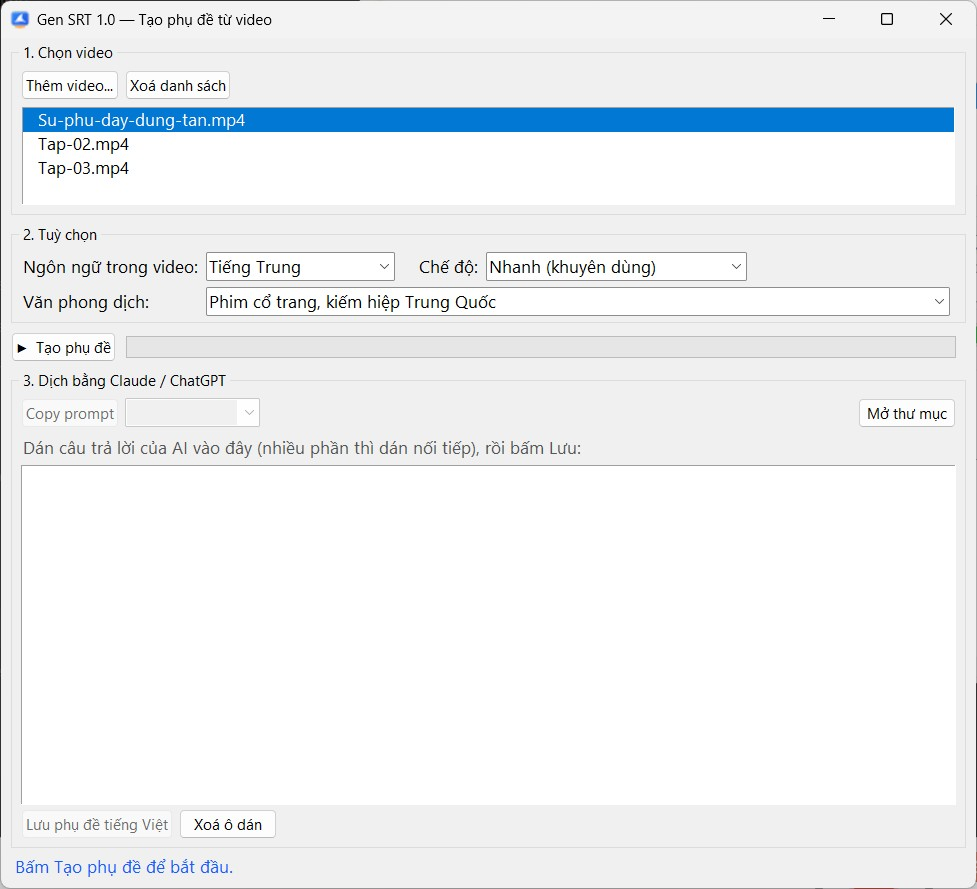
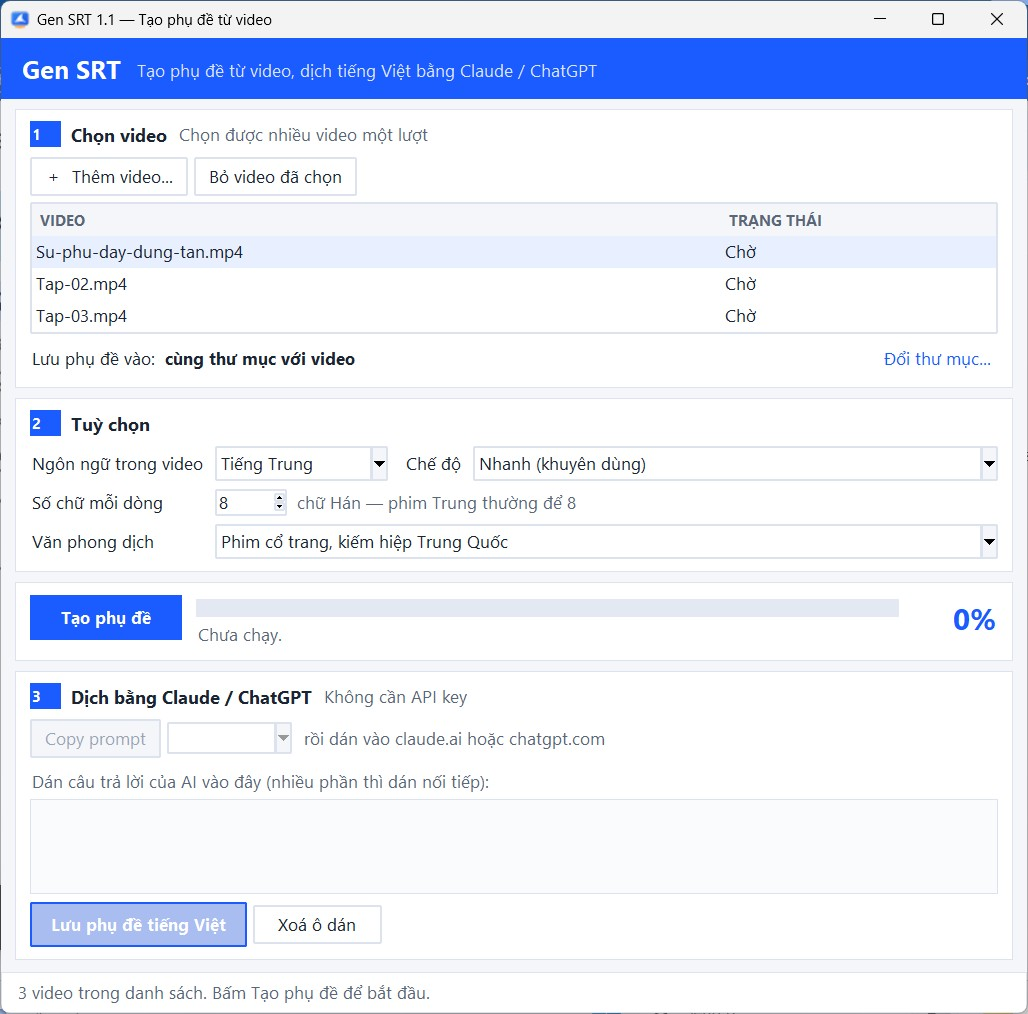
Gen SRT 1.1: hiện tiến trình, chọn nơi lưu, số chữ mỗi dòng
Cập nhật thông tin tải (bản 1.1, 124 MB, SHA-256 mới), tính năng, lịch sử
phiên bản và ảnh hướng dẫn chụp từ giao diện mới.

diff --git a/js/apps.js b/js/apps.js
@@ -144,14 +144,14 @@ window.LONG_APPS = [
       'không cần API key. Dán câu trả lời lại vào app là ra phụ đề tiếng Việt. Nhận dạng giọng nói chạy ngay trên máy bạn.',
     icon: 'img/apps/gensrt.png',
     platform: 'Windows',
-    version: '1.0',
+    version: '1.1',
     updated: '2026-11-15',
-    size: '104 MB',
-    file: 'https://github.com/brucewave/longapps/releases/download/gensrt-1.0/GenSRT-1.0.zip',
[1 lines of base64/hex data omitted]
+    size: '124 MB',
+    file: 'https://github.com/brucewave/longapps/releases/download/gensrt-1.1/GenSRT-1.1.zip',
[1 lines of base64/hex data omitted]
     screens: [ // chụp bằng gensrt/assets/screens.py
-      { src: 'img/guides/gensrt-1-chon-video.jpg', caption: 'Thêm một hoặc nhiều video, chọn ngôn ngữ và văn phong dịch, bấm Tạo phụ đề.' },
-      { src: 'img/guides/gensrt-2-dang-chay.jpg', caption: 'App nghe lời thoại từng video, thanh tiến trình chạy theo phần trăm.' },
+      { src: 'img/guides/gensrt-1-chon-video.jpg', caption: 'Thêm video, chọn nơi lưu, ngôn ngữ, số chữ mỗi dòng (phim Trung thường 8) và văn phong dịch.' },
+      { src: 'img/guides/gensrt-2-dang-chay.jpg', caption: 'Hiện % từng video và cả lượt, thời gian còn lại, file đã lưu ở đâu.' },
       { src: 'img/guides/gensrt-3-dan-ban-dich.jpg', caption: 'Copy prompt sang Claude/ChatGPT, dán câu trả lời vào ô rồi bấm Lưu phụ đề tiếng Việt.' }
     ],
     tags: ['Phụ đề', 'Video', 'Dịch'],
@@ -163,8 +163,10 @@ window.LONG_APPS = [
     ],
     features: [
       'Nhận dạng tiếng Trung, Anh, Hàn, Nhật, Thái hoặc tự nhận diện',
-      'Tách câu theo mốc thời gian từng từ, mỗi dòng ngắn vừa màn hình',
-      'Chạy nhiều video một lượt',
+      'Chọn số chữ mỗi dòng (phim Trung thường 8), ngắt dòng theo từ — không cắt đôi "师傅"',
+      'Tiếng Trung luôn ra chữ giản thể, mốc thời gian khớp từng câu',
+      'Chạy nhiều video một lượt, hiện % và thời gian còn lại',
+      'Lưu cạnh video gốc hoặc vào thư mục bạn chọn',
       'Prompt dịch theo thể loại: xưng hô sư phụ/đồ nhi cho phim cổ trang, anh/em cho phim hiện đại...',
       'Phim dài tự chia phần 250 dòng để dán vào AI không bị cắt',
       'Dán câu trả lời của AI là lưu ra .vi.srt, cảnh báo nếu thiếu dòng'
@@ -176,6 +178,7 @@ window.LONG_APPS = [
       'Dán câu trả lời vào ô trong app, bấm Lưu phụ đề tiếng Việt — file .vi.srt nằm cạnh video.'
     ],
     changelog: [
+      { v: '1.1', date: '2026-11-15', text: 'Giao diện mới: hiện % và thời gian còn lại, chọn thư mục lưu. Thêm số chữ mỗi dòng, ngắt dòng theo từ, luôn ra giản thể, kết quả ổn định giữa các lần chạy.' },
       { v: '1.0', date: '2026-11-15', text: 'Bản đầu tiên.' }
     ]
   }
